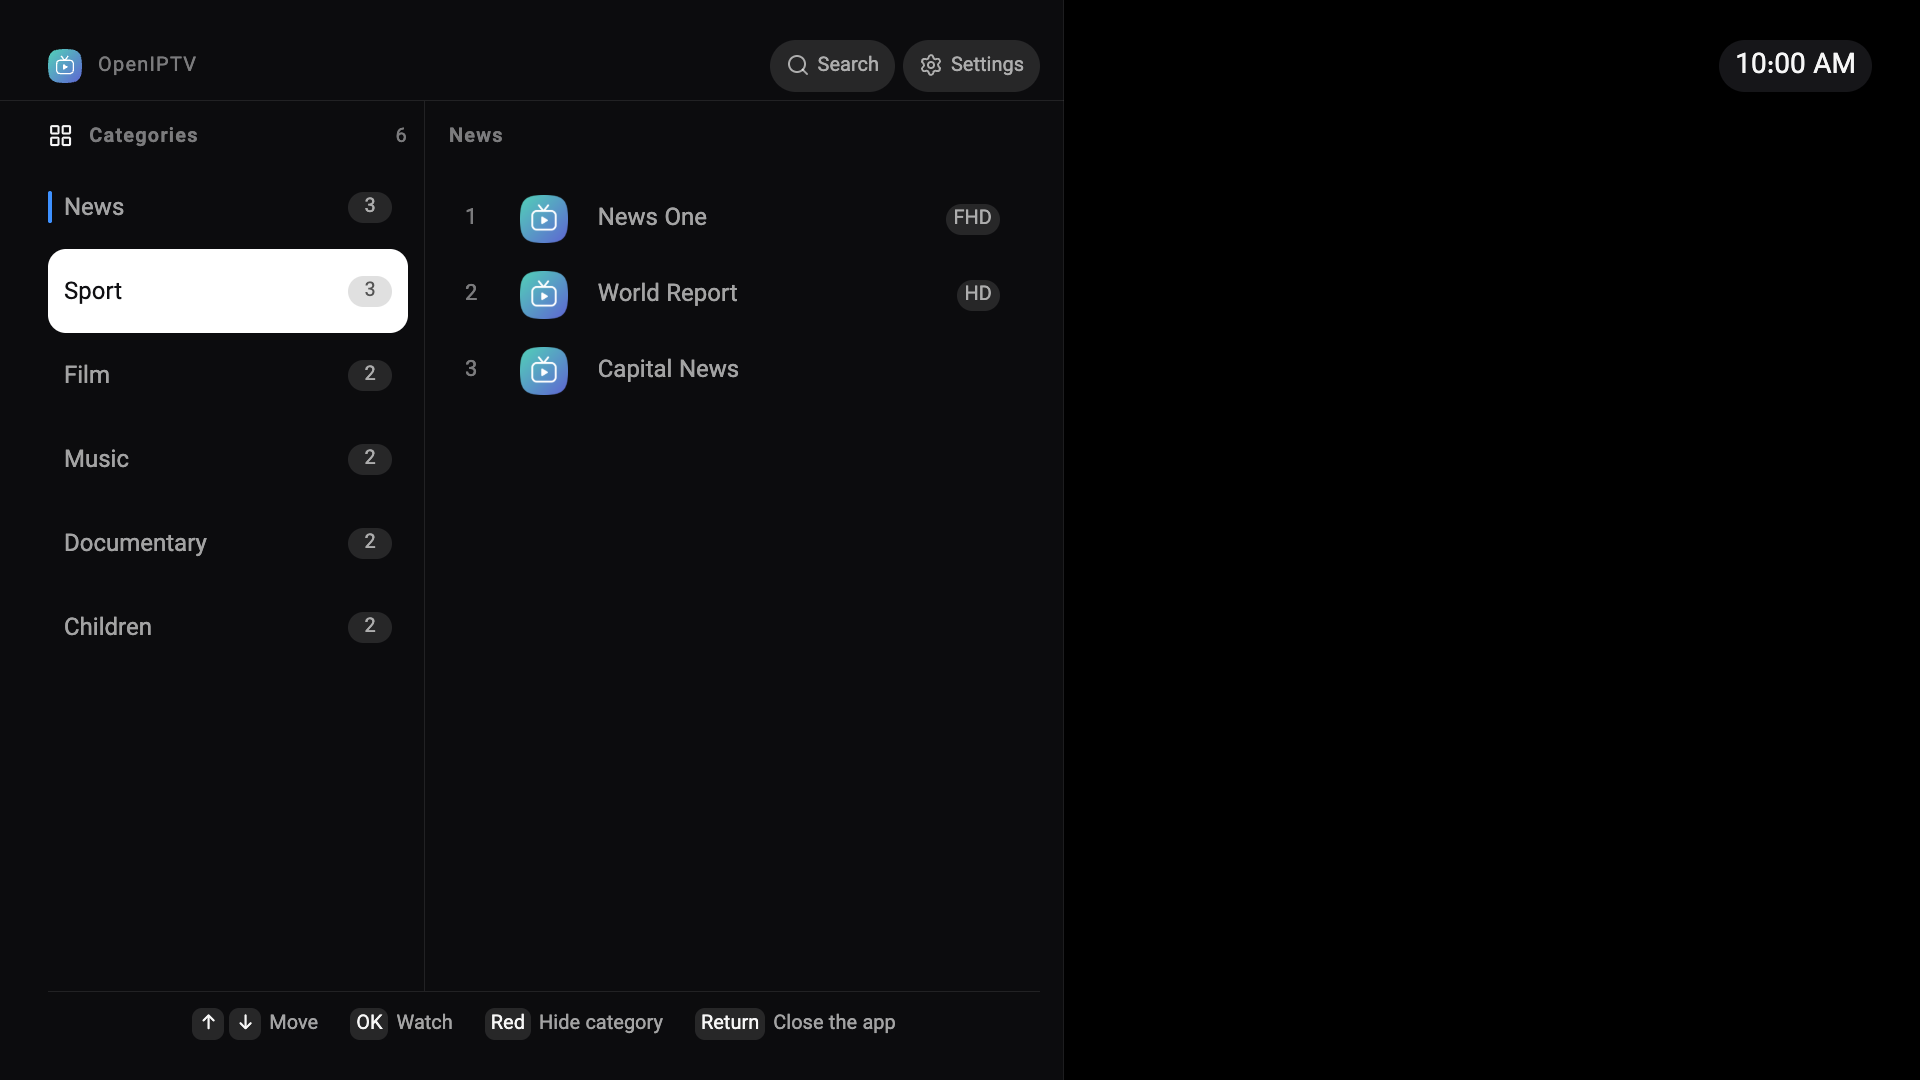
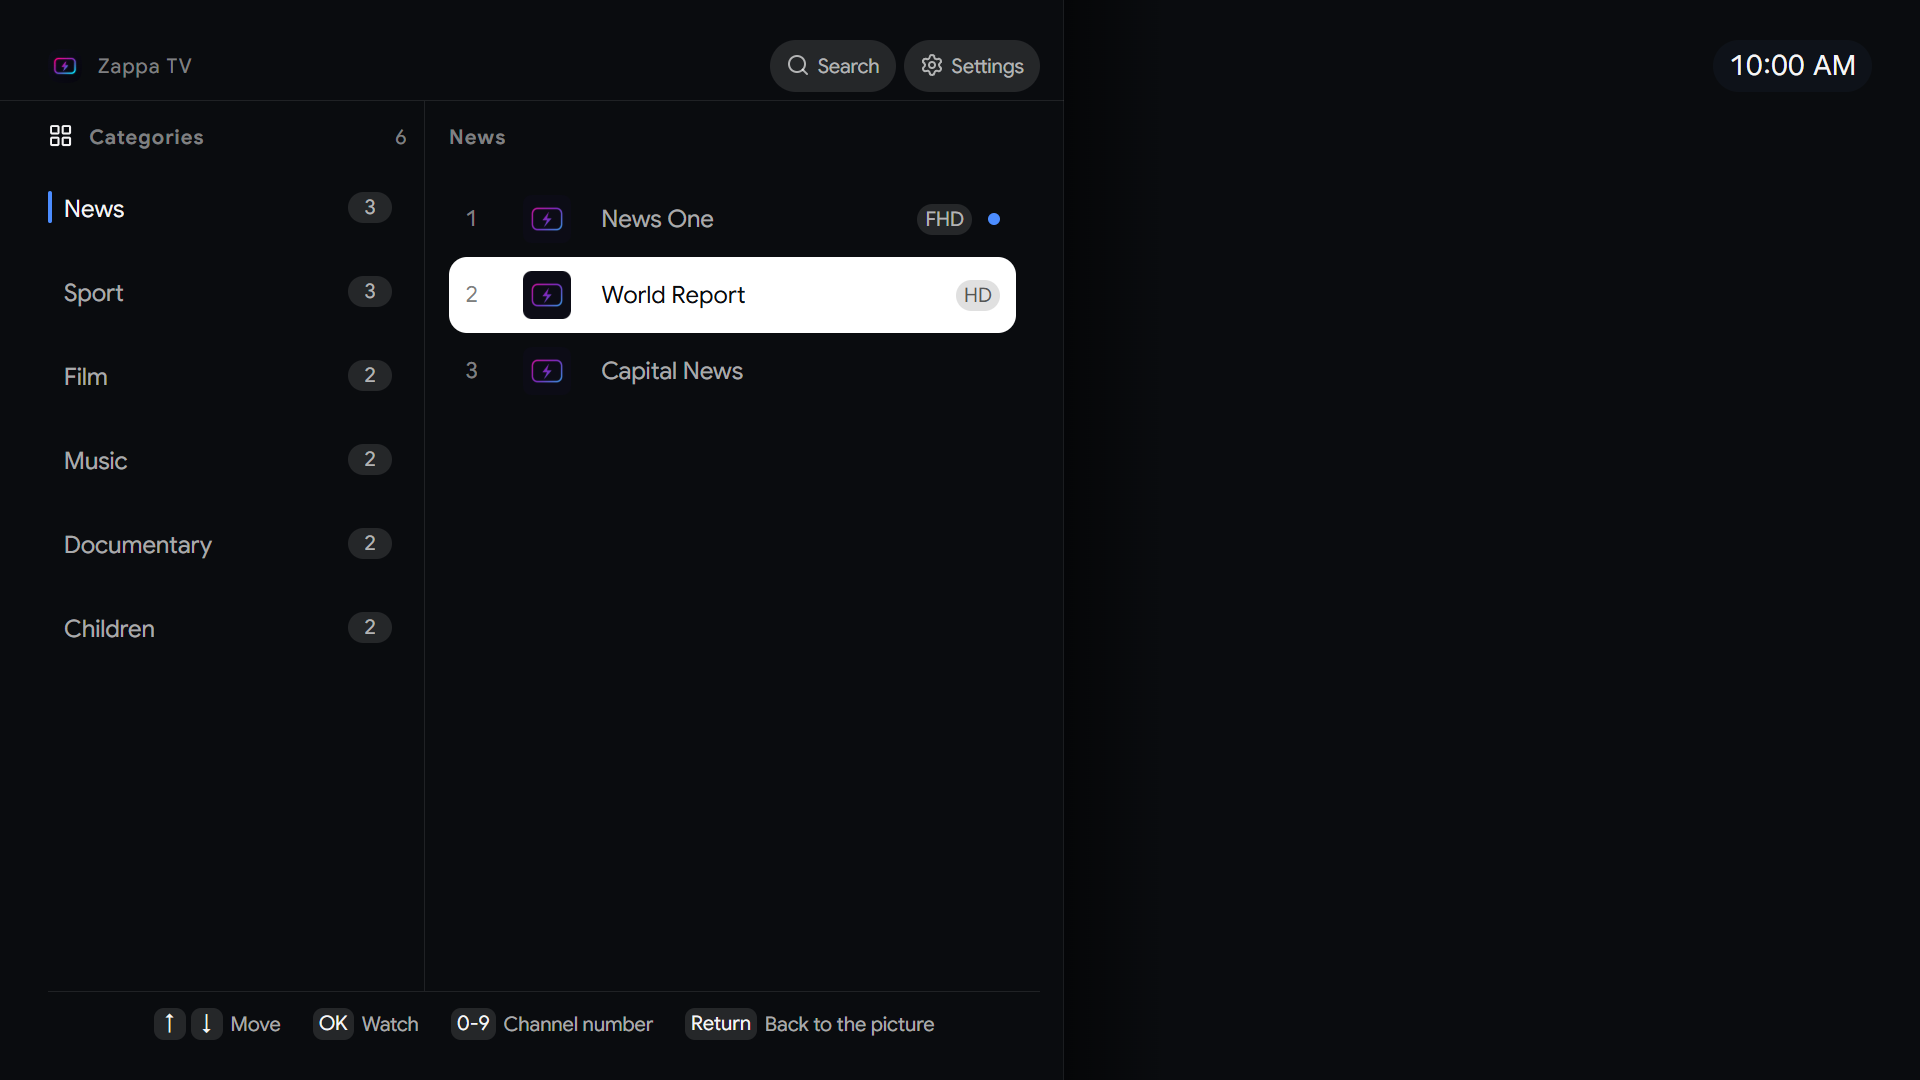
docs: refresh README screenshots from current Zappa TV application (TICKET-2309)

diff --git a/src/components/StartPage.tsx b/src/components/StartPage.tsx
@@ -278,6 +278,7 @@ export function StartPage({
         <button
           type="button"
           className={`home-btn btn-search ${focus === "search" ? "focused" : ""}`}
+          aria-label={t("start.search")}
           onClick={() => {
             setFocus("search");
             onSelectSearch();
@@ -293,6 +294,7 @@ export function StartPage({
         <button
           type="button"
           className={`home-btn btn-settings ${focus === "settings" ? "focused" : ""}`}
+          aria-label={t("start.settings")}
           onClick={() => {
             setFocus("settings");
             onSelectSettings();
